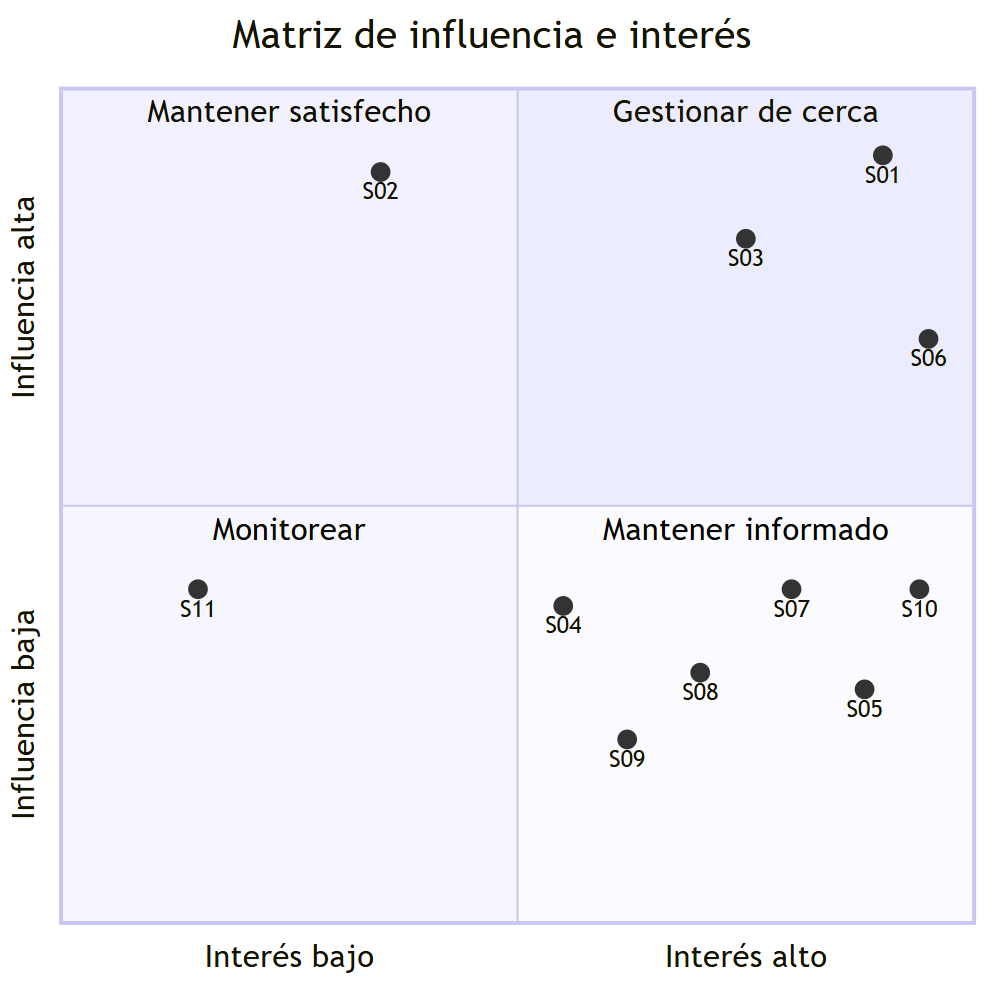
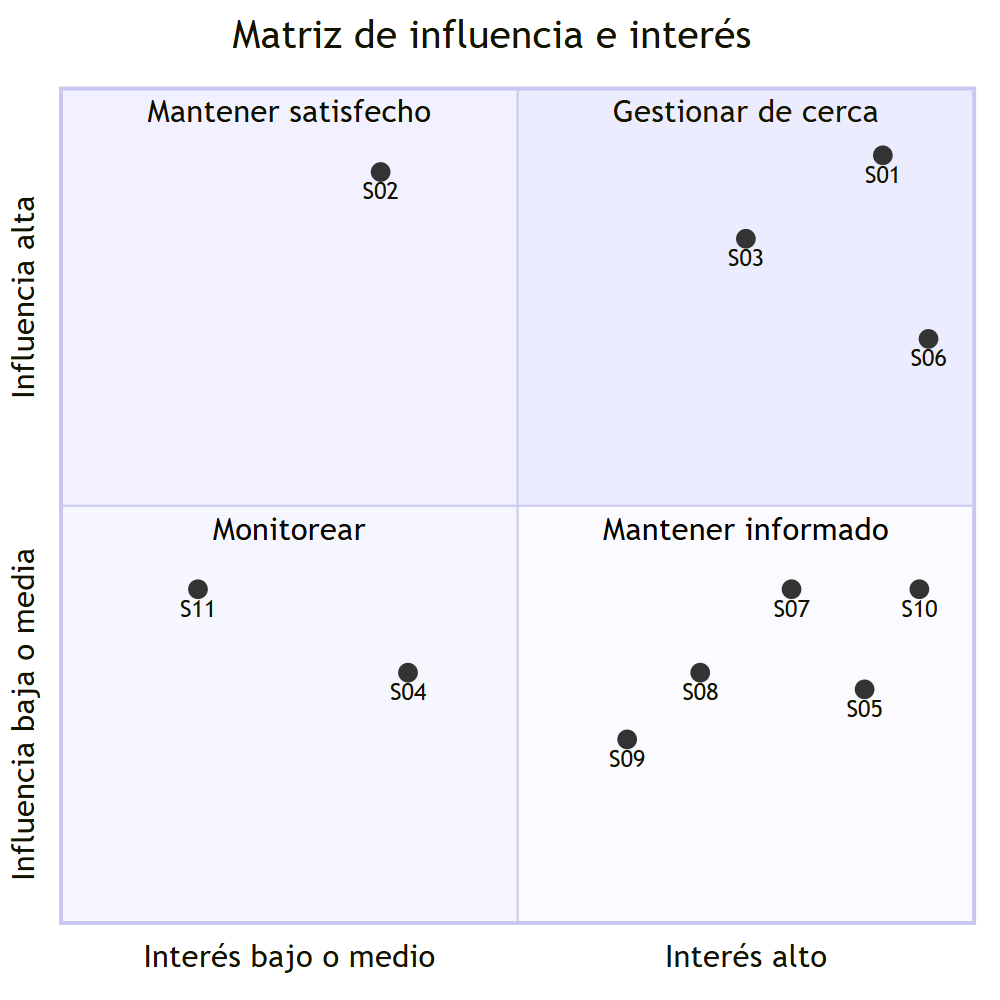
Ajusto stakeholders a las revisiones de Marina y Silvia
- Se aclara el criterio interno/externo: la organización es la
  universidad junto con el equipo del proyecto.
- Los ejes de la matriz dicen "bajo o medio" y "baja o media", y S04 pasa
  a Monitorear para coincidir con la tabla.
- S06 aclara que es el rol del equipo TPI y no suma al equipo de 4.
- Las referencias usan el nombre de cada apartado.

diff --git a/docs/02_stakeholders.md b/docs/02_stakeholders.md
@@ -10,10 +10,10 @@ apartados de requerimientos, riesgos y planificación.
 
 | Criterio | Valores | Cómo se asigna |
 |---|---|---|
-| **Tipo** | Interno / Externo | **Interno:** forma parte del equipo del proyecto o de la estructura de la universidad que opera el sistema. **Externo:** usuario final o tercero ajeno a esa estructura. |
+| **Tipo** | Interno / Externo | Se toma como organización a la universidad, que es quien encarga y opera el sistema, junto con el equipo del proyecto. **Interno:** pertenece a la universidad o al equipo del proyecto (por eso Secretaría, autoridades, Sistemas, Tesorería y el personal administrativo son internos). **Externo:** usuario final o proveedor ajeno a esa organización. |
 | **Interés** | Alto / Medio / Bajo | Cuánto le afecta el resultado del proyecto y cuánto le importa. |
 | **Influencia** | Alta / Media / Baja | Cuánto puede cambiar, frenar o aprobar el proyecto. |
-| **Estrategia** | Según la matriz influencia / interés (ver 2.3) | Alta influencia + alto interés: gestionar de cerca. Alta influencia + interés medio o bajo: mantener satisfecho. Influencia media o baja + interés alto o medio: mantener informado e involucrar. Influencia media o baja + interés bajo: monitorear. |
+| **Estrategia** | Según la matriz influencia / interés (ver 2.3) | En la matriz, "media" se ubica en la mitad baja de cada eje. Alta influencia + alto interés: gestionar de cerca. Alta influencia + interés medio o bajo: mantener satisfecho. Influencia media o baja + interés alto: mantener informado e involucrar. Influencia media o baja + interés medio o bajo: monitorear. |
 
 ## 2.2 Registro de stakeholders
 
@@ -22,9 +22,9 @@ apartados de requerimientos, riesgos y planificación.
 | S01 | **Secretaría Académica** | Cliente y patrocinador funcional. Define y aprueba los requisitos y firma el Sign-off. | Interno | **Alto:** dejar de atender las solicitudes a mano y emitir certificados correctos. | **Alta:** aprueba alcance, cambios y conformidad final. | **Gestionar de cerca:** reunión semanal, validación de cada entregable y decisiones registradas por escrito. |
 | S02 | **Autoridades de la universidad** (Rectorado / Dirección) | Patrocinador del presupuesto de USD 18.000. | Interno | **Medio:** que se cumplan costo y plazo. | **Alta:** puede recortar el presupuesto o cancelar el proyecto. | **Mantener satisfecho:** informe ejecutivo en cada hito (semáforo y costo), sin detalle técnico. |
 | S03 | **Área de Sistemas / TI** | Responsable del sistema de alumnos existente. Otorga el acceso de lectura y el ambiente de despliegue. | Interno | **Alto:** que el SGCA no afecte ni modifique su sistema ni su seguridad. | **Alta:** sin su acceso no hay integración ni despliegue. | **Gestionar de cerca:** acordar al inicio la forma de acceso de solo lectura y coordinar pruebas y despliegue. |
-| S04 | **Administración / Tesorería** | Origen y responsable de la información de deudas administrativas. | Interno | **Medio:** que el bloqueo por deuda se aplique correctamente. | **Media:** define qué se considera deuda. | **Consultar y mantener informado:** validar la regla de deuda y sus casos límite antes de implementarla. |
+| S04 | **Administración / Tesorería** | Origen y responsable de la información de deudas administrativas. | Interno | **Medio:** que el bloqueo por deuda se aplique correctamente. | **Media:** define qué se considera deuda. | **Monitorear y consultar:** validar con ellos la regla de deuda y sus casos límite antes de implementarla. |
 | S05 | **Personal administrativo de Secretaría** | Operadores que hoy procesan las solicitudes a mano y reciben el traspaso del sistema. | Interno | **Alto:** cambia su trabajo diario; esperan no perder control sobre las solicitudes. | **Media:** conocen el proceso real y pueden resistir el cambio. | **Involucrar:** entrevistas de elicitación, demo en cada hito y sesión de traspaso. |
-| S06 | **Gestor del proyecto** (equipo TPI) | Planifica, controla alcance, riesgos y comunicación. | Interno | **Alto:** cumplir alcance, plazo y costo. | **Alta:** coordina al equipo y gestiona los cambios. | **Gestionar de cerca:** reporte de avance semanal y registro de cambios. |
+| S06 | **Gestor del proyecto** (equipo TPI) | Planifica, controla alcance, riesgos y comunicación. Es el rol que cumple el equipo del TPI: no suma una persona al equipo de 4 del alcance. | Interno | **Alto:** cumplir alcance, plazo y costo. | **Alta:** coordina al equipo y gestiona los cambios. | **Gestionar de cerca:** reporte de avance semanal y registro de cambios. |
 | S07 | **Desarrolladores** (2) | Construyen backend (Node.js) y frontend (React). | Interno | **Alto:** requisitos claros y estables, y una carga de trabajo realista. | **Media:** estiman y toman las decisiones técnicas. | **Involucrar:** refinar las historias de usuario con ellos y no aceptar cambios sin estimar. |
 | S08 | **Tester** | Diseña y ejecuta las pruebas; valida los criterios de aceptación. | Interno | **Alto:** criterios de aceptación verificables. | **Media:** puede frenar una entrega si no se cumple la calidad esperada. | **Involucrar desde el inicio:** participa en la redacción de los criterios BDD y en el plan de pruebas. |
 | S09 | **Diseñador UX** | Diseña el flujo de solicitud y la interfaz (desktop y móvil). | Interno | **Alto:** conocer a los usuarios y que el diseño se respete. | **Media:** define la experiencia del alumno. | **Involucrar:** prototipo validado con alumnos antes de desarrollar. |
@@ -44,8 +44,8 @@ apartados de requerimientos, riesgos y planificación.
 ```mermaid
 quadrantChart
     title Matriz de influencia e interés
-    x-axis Interés bajo --> Interés alto
-    y-axis Influencia baja --> Influencia alta
+    x-axis Interés bajo o medio --> Interés alto
+    y-axis Influencia baja o media --> Influencia alta
     quadrant-1 Gestionar de cerca
     quadrant-2 Mantener satisfecho
     quadrant-3 Monitorear
@@ -59,7 +59,7 @@ quadrantChart
     S09: [0.62, 0.22]
     S05: [0.88, 0.28]
     S10: [0.94, 0.40]
-    S04: [0.55, 0.38]
+    S04: [0.38, 0.30]
     S11: [0.15, 0.40]
 ```
 
@@ -79,8 +79,8 @@ quadrantChart
 
 | Elemento | Se conecta con |
 |---|---|
-| S01 y S02 | Aprueban la línea base del alcance (apartado 1) y la conformidad final (entregable externo 1). |
-| S03, S04 y S11 | Dependencias externas que alimentan los riesgos y supuestos (apartado 5). |
-| S05 y S10 | Fuentes principales de elicitación de requerimientos (apartado 3). |
-| S07, S08 y S09 | Capacidad del equipo para estimación y cronograma (apartados 6 y 7). |
-| Acciones de alineación | Reporte de avance y KPIs del seguimiento (apartado 8). |
+| S01 y S02 | Aprueban la línea base del Alcance y la conformidad final (entregable externo 1). |
+| S03, S04 y S11 | Dependencias que alimentan el apartado de Riesgos, supuestos y restricciones. |
+| S05 y S10 | Fuentes principales de elicitación (apartado de Ingeniería de Requerimientos). |
+| S07, S08 y S09 | Capacidad del equipo para los apartados de Estimación de tiempos y costos y de Planificación. |
+| Acciones de alineación | Reporte de avance y KPIs del apartado de Seguimiento y control. |
